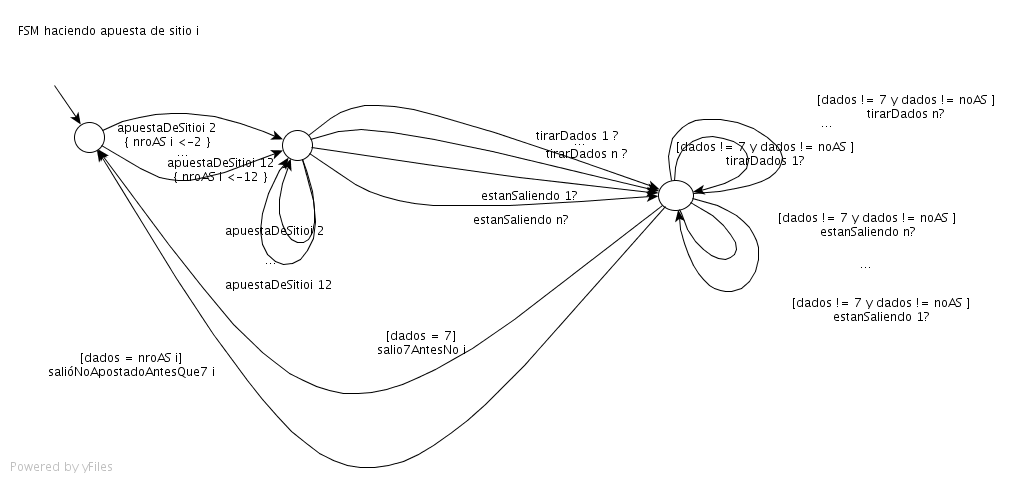
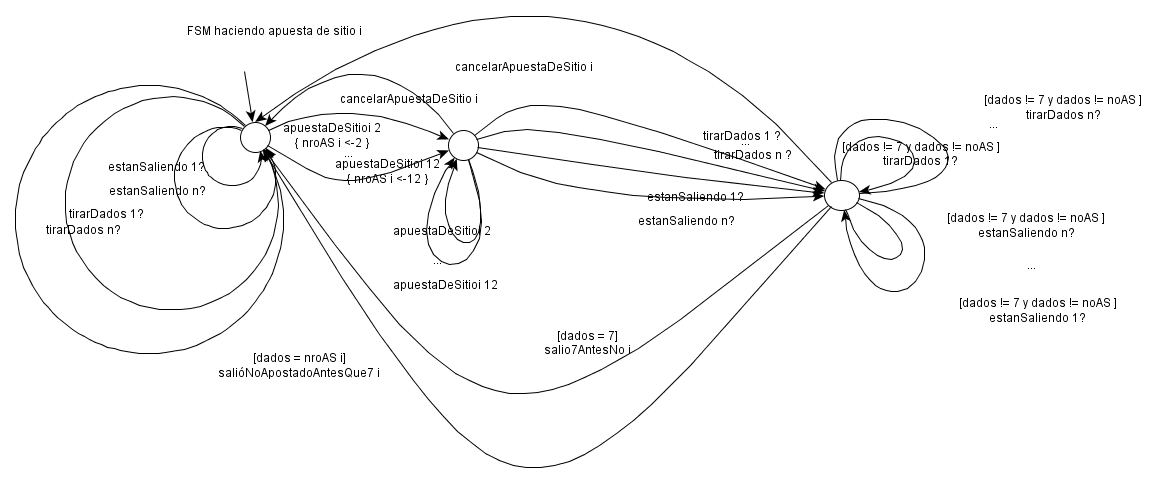
tablitas de labels de fsm's e algunas modificaciones en las imagenes

diff --git a/trunk/tp1/informe/glosario.tex b/trunk/tp1/informe/glosario.tex
@@ -8,7 +8,8 @@
 \subsubsection{Craps}
 \begin{center}
     \begin{tabular}{p{5cm}|p{8cm}}
- 
+
+%%%%%%%%%%% TIRADOR %%%%%%%%%%%% 
 %      \multicolumn{2}{c}{Referencias de las etiquetas y Variable de la \negrita{ \tirador{} } \\
     \hline
     \negrita{Etiqueta de la transici'on} & \negrita{Acci'on} \\
@@ -34,7 +35,8 @@
     \label{glosarioFSMjugadori}
     \end{tabular}
 \end{center}
- 
+
+%%%%%%%%%%% CRUPIER %%%%%%%%%%%% 
  \begin{center}
     \begin{tabular}{p{5cm}|p{8cm}}
            \multicolumn{2}{c}{Referencias de las etiquetas de la \crupier } \\
@@ -44,33 +46,70 @@
             darleDadosAl ProximoTirador & los dados pasan al pr'oximo jugador  \\
         \hline
             \italica{Variable} tirador & almancena el n'umero de tirador actual o candidato a tirador si decidiera dejar los dados\\
+        \hline
+            \italica{Variable} punto & almancena el valor del punto en la ronda.\\
  \end{tabular}
  \end{center}
 
+%%%%%%%%%%% APUESTA LINEA DE PASE / BARRA NO PASE %%%%%%%%%%%% 
 \begin{center}
   \begin{tabular}{p{5cm}|p{8cm}}
-      \multicolumn{2}{c}{Referencias de las etiquetas de la \textbf{FSM Apuesta m'as de una ronda i } } \\
+      \multicolumn{2}{c}{Referencias de las etiquetas de la \textbf{FSM Jugador haciendo apuesta linea de pase / no pase i } } \\
       \hline
       \negrita{Etiqueta de la transici'on} & \negrita{Acci'on} \\
-      apuestaDeMasDeUna Ronda i & el jugador i hace una apuesta  \\
+      apuestaDeMasDeUnaRonda i & el jugador i hace una apuesta del tipo linea de pase / barra no pase \\
       \hline
-      perdi'oApuestaDeUna Ronda i & el jugador i gano su apuesta \\
+      ganoApuestaDeUnaRonda i & el jugador i gan'o su apuesta del tipo linea de pase / barra no pase.\\
       \hline
-      perdi'oApuestaDeUna Ronda i & el jugador i perdió su apuesta    \\  
+      perdi'oApuestaDeUna Ronda i & el jugador i perdi'o su apuesta del tipo linea de pase / barra no pase.\\  
   \end{tabular}
 \end{center}
 
-
+%%%%%%%%%%% APUESTA DE CAMPO %%%%%%%%%%%%
 \begin{center}
     \begin{tabular}{p{5cm}|p{8cm}}
-    \multicolumn{2}{c}{Referencias de las etiquetas de la \textbf{FSM Apuesta de un tiro i } } \\
+    \multicolumn{2}{c}{Referencias de las etiquetas de la \textbf{FSM Jugador i haciendo apuesta de campo } } \\
     \hline
     \negrita{Etiqueta de la transici'on} & \negrita{Acci'on} \\
-    apuestaDeMasDeUna Ronda i & el jugador i hace una apuesta  \\
+    apuestaUnTiro i & el jugador i hace una apuesta de campo  \\
     \hline
-    perdi'oApuestaDeUna Ronda i & el jugador i gano su apuesta \\
+    ganoApuestaDeUnTiro i & el jugador i gano su apuesta \\
     \hline
-    perdi'oApuestaDeUna Ronda i & el jugador i perdió su apuesta    \\  
+    perdi'oApuestaDeUnTiro i & el jugador i perdió su apuesta    \\  
+    \end{tabular}
+\end{center}
+
+%%%%%%%%%%% APUESTA DE SITIO %%%%%%%%%%%
+\begin{center}
+    \begin{tabular}{p{5cm}|p{8cm}}
+    \multicolumn{2}{c}{Referencias de las etiquetas de la \textbf{FSM Jugador i haciendo apuesta de sitio } } \\
+    \hline
+    \negrita{Etiqueta de la transici'on} & \negrita{Acci'on} \\
+    apuestaDeSitio i 2..12 & el jugador i hace una apuesta de sitio, se setea a que n'umero apost'o (a ganar o perder) \\
+    \hline
+    salioNroApostadoAntesQue7 i & la apuesta se resolvi'o debido a que el n'umero sobre el cual se realiz'o la apuesta sali'o antes que salga un siete. \\
+    \hline
+    salio7AntesQueNro i & la apuesta se resolvi'o debido a que sali'o un siete antes que saliera el n'umero sobre el cual se realiz'o la apuesta. \\
+    \end{tabular}
+\end{center}
+
+%%%%%%%%%%% APUESTA VENIR NO VENIR %%%%%%%%%%%%
+\begin{center}
+    \begin{tabular}{p{5cm}|p{8cm}}
+    \multicolumn{2}{c}{Referencias de las etiquetas de la \textbf{FSM Jugador i haciendo apuesta venir/no venir } } \\
+    \hline
+    \negrita{Etiqueta de la transici'on} & \negrita{Acci'on} \\
+    apuestaVenir/NoVenir i & el jugador i hace una apuesta del tipo venir o del tipo no venir \\
+    \hline
+    puntoVenirNoVenir i & se fija el valor del punto venir o el valor del punto no venir \\
+    \hline
+    puntoOtraVez i & se define la apuesta del jugador i debido a que se repiti'o el valor del puntoVenirNoVenir antes de la ocurrencia de un siete \\
+    \hline
+    sieteAntesDePuntoVenirNoVenir i & se define la apuesta del jugador i debido a que sali'o un siete antes que el valor del puntoVenirNoVenir.\\
+    \hline
+    ganoVenirNoVenir i & el jugador i gan'o su apuesta venir/ no venir. \\
+    \hline
+    perdioVenirNoVenir i & el jugador i perdi'o su apuesta venir/ no venir. \\
     \end{tabular}
 \end{center}
 
